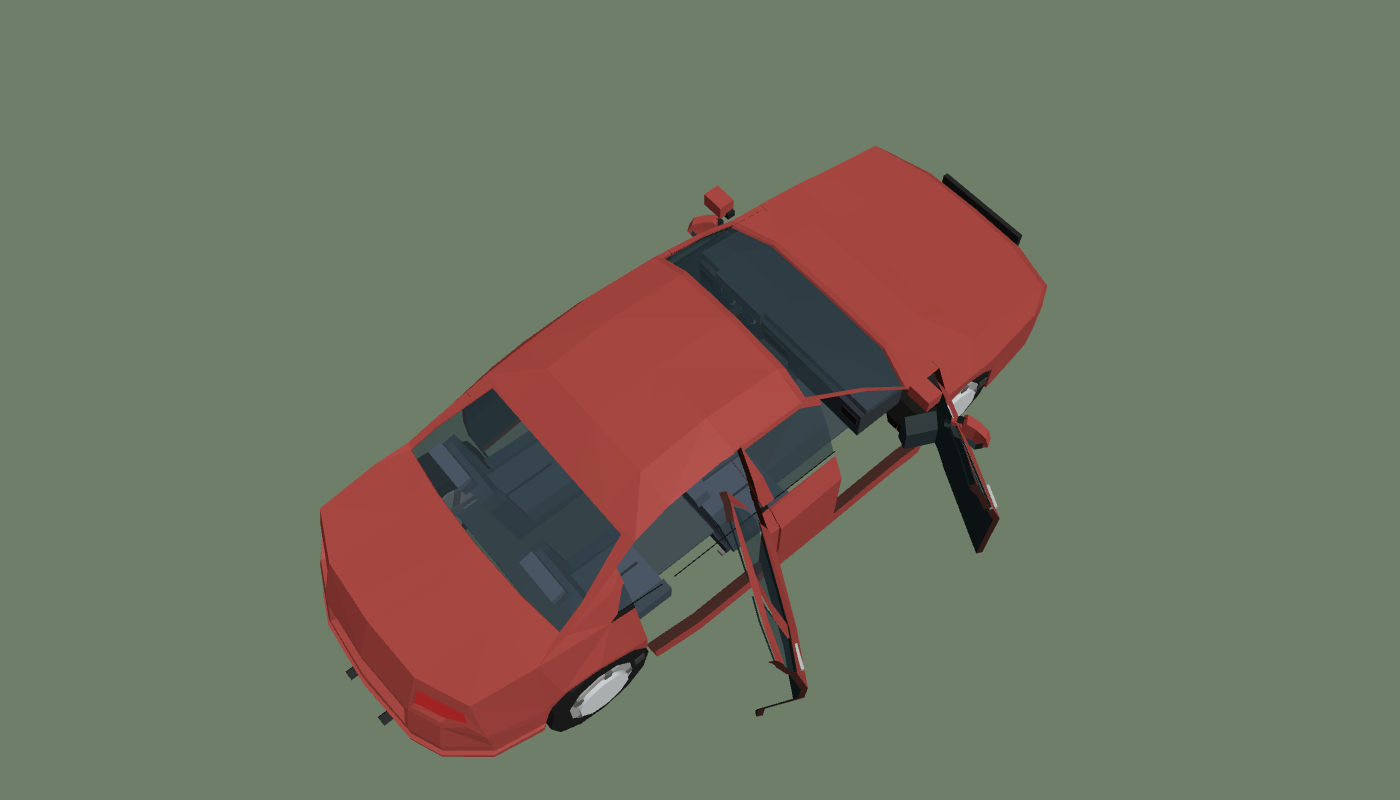
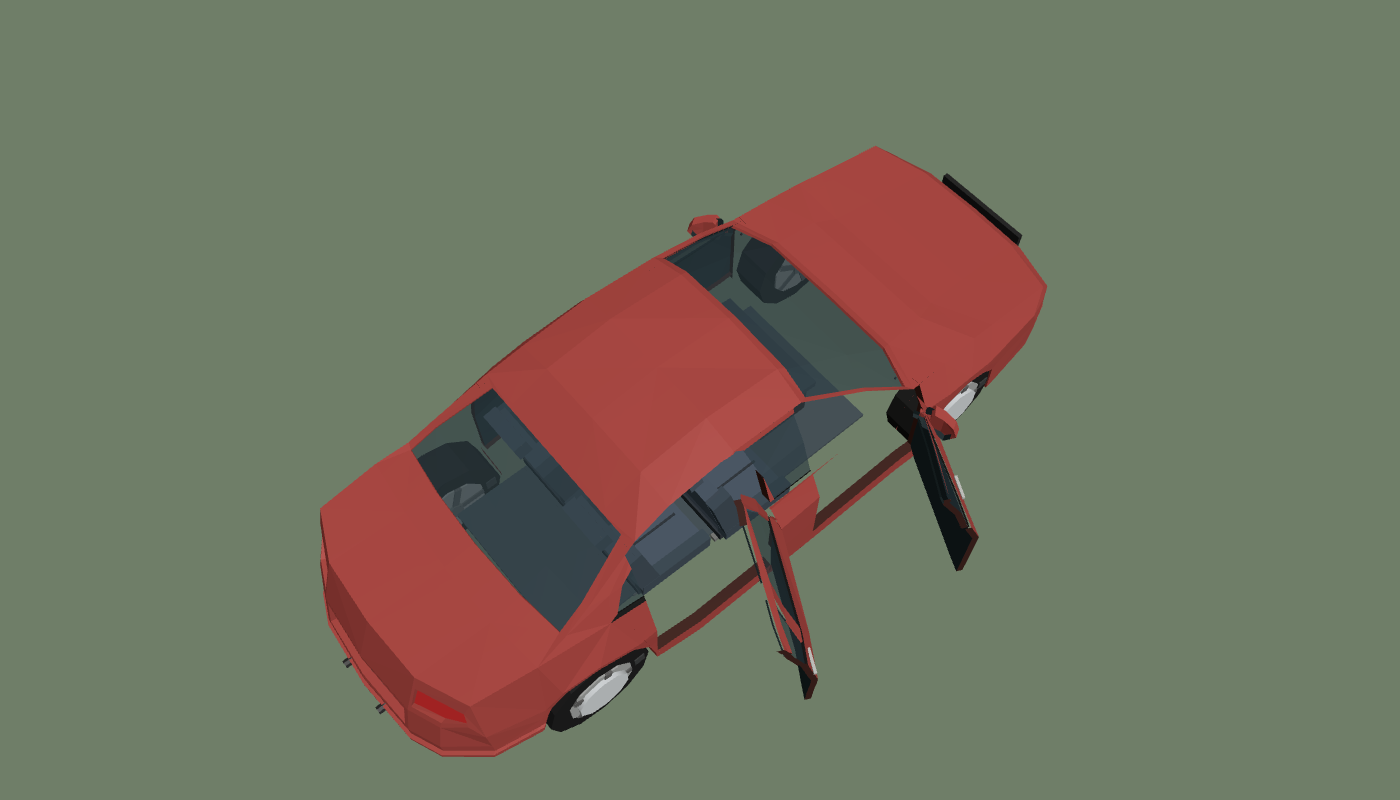
Interieur binnen de romp: dashboard achter de voorruit, portieren achter de wielkasten
- addInterieur: stoelen, vloer en dashboard volgen de vrije binnenbreedte per plek (ruimte); het dashboard schuift naar achteren
  tot 85 % van zijn breedte vrij is, de achterbank naar voren tot de hoofdsteun onder de achterruit past
- hybride portieren beginnen achter de voorste wielkast en eindigen voor de achterste, met behoud van breedte; de rig volgt
  userData.deurMaat (vehicledoors3d.js). Het blok naast de open voordeur was het voorwiel door het gat
- zwarte raamlijst op de flank gaat altijd mee met de deur
- deursnipper_test: elk interieurpunt minstens 5 mm binnen de buitenste flank
- dashboard en stoel zonder samenvallende vlakken (naaf, rails); contactblad en verslag bijgewerkt

diff --git a/game/js/models3d_vehicles.js b/game/js/models3d_vehicles.js
@@ -682,14 +682,37 @@ function addPropGeo(B, geo, m) {
     B._push(0, pts[0], pts[1], pts[2], [c.getX(i), c.getY(i), c.getZ(i)], null);
   }
 }
-function addInterieur(B, { xA, xD, belt, vloerY, vloerW, stoelY, sx, zs, dashW }) {
-  B.box((xA + xD) / 2, vloerY, 0, xA - xD - 0.2, 0.02, vloerW, 0x45474c);
+// ruimte(x0, x1, y0, y1): de halve binnenbreedte die over dat hele stuk vrij is (de smalste plek van de flank, min een marge); zonder
+// ruimte-functie gelden de vaste maten (zs, dashW). Elke stoel schuift dan naar binnen en het dashboard wordt smaller waar de romp
+// inloopt (wielkast, A-stijl, voorruit), zodat geen interieurdeel door de carrosserie steekt.
+function addInterieur(B, { xA, xD, belt, vloerY, vloerW, stoelY, sx, zs, dashW, ruimte = null }) {
+  const vw = ruimte ? Math.min(vloerW, 2 * ruimte(xD + 0.1, xA - 0.1, vloerY - 0.01, vloerY + 0.01)) : vloerW;
+  B.box((xA + xD) / 2, vloerY, 0, xA - xD - 0.2, 0.02, vw, 0x45474c);
   const stoel = propGeometry('autostoel'), dash = propGeometry('dashboard');
+  if (!stoel.boundingBox) stoel.computeBoundingBox();
+  if (!dash.boundingBox) dash.computeBoundingBox();
+  const sb = stoel.boundingBox, db = dash.boundingBox, sHalf = Math.max(-sb.min.z, sb.max.z);
+  // de achterbank staat iets verder naar voren dan bij de procedurele auto: daar lopen het dak en de achterruit al in
+  let ax = ruimte ? sx - 0.78 : sx - 0.85, ay = stoelY;
+  // past de hoofdsteun niet onder de achterruit (de flank houdt daar op), dan schuift de bank naar voren
+  if (ruimte) for (let i = 0; i < 12 && ruimte(ax + sb.min.x, ax + sb.min.x + 0.12, ay + sb.max.y - 0.14, ay + sb.max.y) < zs * 0.92 + 0.14; i++) ax += 0.03;
+  const stoelZ = (x, y, z) => {
+    if (!ruimte) return z;
+    const vrij = ruimte(x + sb.min.x, x + sb.max.x, y + sb.min.y, y + sb.max.y) - sHalf;
+    return Math.sign(z) * Math.max(sHalf + 0.01, Math.min(Math.abs(z), vrij));
+  };
   for (const z of [-zs, zs]) {
-    addPropGeo(B, stoel, composeMatrix(sx, stoelY, z));
-    addPropGeo(B, stoel, composeMatrix(sx - 0.85, stoelY, z * 0.92));
+    addPropGeo(B, stoel, composeMatrix(sx, stoelY, stoelZ(sx, stoelY, z)));
+    addPropGeo(B, stoel, composeMatrix(ax, ay, stoelZ(ax, ay, z * 0.92)));
   }
-  addPropGeo(B, dash, composeMatrix(xA - 0.2, belt - 0.5, 0, 0, 0, 0, 1, 1, Math.min(1, dashW / 1.42)));
+  // het dashboard staat achter de onderrand van de voorruit: schuift naar achteren tot de romp minstens 85 % van zijn breedte vrij laat
+  // (de voorruit en de A-stijlen lopen naar voren in), en wordt dan smal genoeg gemaakt dat het nergens door de flank steekt
+  let dx = xA - 0.26;
+  const dy = belt - 0.5, dHalf = Math.max(-db.min.z, db.max.z);
+  const dashVrij = (x) => ruimte(x + db.min.x, x + db.max.x, dy + db.min.y, dy + db.max.y);
+  if (ruimte) for (let i = 0; i < 12 && dashVrij(dx) < dHalf * 0.85; i++) dx -= 0.03;
+  const dz = ruimte ? Math.max(0.5, Math.min(1, dashVrij(dx) / dHalf)) : Math.min(1, dashW / 1.42);
+  addPropGeo(B, dash, composeMatrix(dx, dy, 0, 0, 0, 0, 1, 1, dz));
 }
 
 // De echte deuropeningen (eis eigenaar 23-11): de dichte deuren als één statische mesh in het gat (buitenkant in lak, binnenkant
@@ -994,7 +1017,7 @@ export function hybridFit(key, L, W) {
   }).userData.fit;
 }
 function hybridBody(key, L, W, paint, doorName, police) {
-  return cached(`hybride3|${key}|${L}|${W}|${paint}|${doorName}|${police}`, () => {
+  return cached(`hybride4|${key}|${L}|${W}|${paint}|${doorName}|${police}`, () => {
     const hl = L / 2, hw = W / 2;
     const tris = hybridTris(key, L, W);
     const fit = hybridFit(key, L, W);
@@ -1003,13 +1026,33 @@ function hybridBody(key, L, W, paint, doorName, police) {
     const lakTris = tris.filter((t) => t.r === 0).map((t) => t.v);
     // de deuren die een echt gat krijgen: hun uitgeknipte stuk romp (met ruit) wordt de deur
     const defs = (DEUR_DEFS_REF[doorName] || []).filter((d) => d.soort === 'scharnier' || d.soort === 'achterscharnier');
-    const vlak = {}, deurZ = {}, rects = {};
+    const vlak = {}, deurZ = {}, rects = {}, deurMaat = {};
+    // de wielkasten: een portier begint achter de voorste wielkast en eindigt vóór de achterste (anders opent de deur een stuk
+    // spatbord en zie je door het gat het wiel met zijn wieldop)
+    const { auto } = hybridData(key), sc = hybridScale(auto, L, W, key), wr = auto.wielen[0].r * sc.sy;
+    const kasten = [...new Set(auto.wielen.map((w) => +(w.x * sc.sx).toFixed(3)))];
     for (const d of defs) {
       const z = hybridSurface(lakTris, d.x * L, d.y0 + d.h / 2, d.side);
       if (z === null) continue;
       deurZ[d.id] = Math.abs(z);
       // bovenkant: de bovenkant van de zijruit boven deze deur plus de raamlijst (niet het dak of de C-stijl: die zitten niet aan de deur)
-      const x0 = d.x * L - d.w / 2, x1 = d.x * L + d.w / 2;
+      let x0 = d.x * L - d.w / 2, x1 = d.x * L + d.w / 2;
+      // de deur schuift weg van de wielkast en houdt zijn breedte, tot op 7 cm van het midden van de stijl naar de buurdeur
+      const buren = defs.filter((q) => q !== d && q.side === d.side);
+      for (const kx of kasten) {
+        if (kx > x1 + wr + 0.04 || kx < x0 - wr - 0.04) continue;
+        if (kx > (x0 + x1) / 2) {
+          x1 = Math.min(x1, kx - wr - 0.04);
+          const achter = buren.filter((q) => q.x < d.x).map((q) => (q.x * L + q.w / 2 + d.x * L - d.w / 2) / 2 + 0.07);
+          x0 = Math.max(x1 - d.w, ...achter, -Infinity) > x0 ? x0 : Math.max(x1 - d.w, ...achter);
+        } else {
+          x0 = Math.max(x0, kx + wr + 0.04);
+          const voor = buren.filter((q) => q.x > d.x).map((q) => (q.x * L - q.w / 2 + d.x * L + d.w / 2) / 2 - 0.07);
+          x1 = Math.min(x0 + d.w, ...voor, Infinity) < x1 ? x1 : Math.min(x0 + d.w, ...voor);
+        }
+      }
+      if (x1 - x0 < 0.6) { x0 = d.x * L - d.w / 2; x1 = d.x * L + d.w / 2; } // te smal: dan de oude maat
+      if (x0 !== d.x * L - d.w / 2 || x1 !== d.x * L + d.w / 2) deurMaat[d.id] = { x: (x0 + x1) / 2 / L, w: x1 - x0 };
       let ruitTop = 0;
       for (const t of tris) if (t.r === 1) { const cx = (t.v[0][0] + t.v[1][0] + t.v[2][0]) / 3, cz = (t.v[0][2] + t.v[1][2] + t.v[2][2]) / 3; if (cx > x0 && cx < x1 && cz * d.side > 0.3) ruitTop = Math.max(ruitTop, ...t.v.map((p) => p[1])); }
       rects[d.id] = [x0, d.y0, x1, Math.min(fit.roof - 0.07, ruitTop ? ruitTop + 0.035 : fit.roof - 0.07)];
@@ -1068,7 +1111,8 @@ function hybridBody(key, L, W, paint, doorName, police) {
       const u = [0, 1, 2].map((k) => t.v[1][k] - t.v[0][k]), w = [0, 1, 2].map((k) => t.v[2][k] - t.v[0][k]);
       const n = [u[1] * w[2] - u[2] * w[1], u[2] * w[0] - u[0] * w[2], u[0] * w[1] - u[1] * w[0]], nl = Math.hypot(...n) || 1;
       const ruitOpzij = t.r !== 1 || (n[2] / nl) * (c[2] < 0 ? -1 : 1) > 0.6; // van de ruiten alleen de zijruit, niet de hoek van de voor- of achterruit
-      const d = (t.r === 2 || t.r === 3 || !ruitOpzij) ? null : defs.find((q) => rects[q.id] && ((n[2] / nl) * q.side > (c[1] > fit.belt ? 0.5 : 0.15) && c[2] * q.side >= deurZ[q.id] * 0.55 || c[1] <= fit.belt && (n[2] / nl) * q.side > -0.3 && c[2] * q.side >= deurZ[q.id] * 0.8)
+      // zwarte sierlijsten op de flank (de raamlijst, met een bovenvlak dat niet opzij kijkt) gaan altijd mee met de deur
+      const d = (t.r === 2 || t.r === 3 || !ruitOpzij) ? null : defs.find((q) => rects[q.id] && ((n[2] / nl) * q.side > (c[1] > fit.belt ? 0.5 : 0.15) && c[2] * q.side >= deurZ[q.id] * 0.55 || (c[1] <= fit.belt && (n[2] / nl) * q.side > -0.3 || t.r === 4) && c[2] * q.side >= deurZ[q.id] * 0.8)
         && Math.max(...t.v.map((p) => p[0])) > rects[q.id][0] && Math.min(...t.v.map((p) => p[0])) < rects[q.id][2] && Math.max(...t.v.map((p) => p[1])) > rects[q.id][1] && Math.min(...t.v.map((p) => p[1])) < rects[q.id][3]);
       if (!d) {
         // een klein deel dat helemaal binnen de contour aan de buitenkant zit maar niet opzij kijkt (een spiegel, een sierrand op de deur):
@@ -1148,6 +1192,7 @@ function hybridBody(key, L, W, paint, doorName, police) {
     geo.userData.parts = { hl, hw, hood: fit.hood, bumperColor: paint, front: { start: f0, end: f1, y: 0.4, x: hl - 0.1 }, rear: { start: f1, end: r1, y: 0.42, x: -hl + 0.1 } };
     geo.userData.deurZ = deurZ;
     geo.userData.gatRects = rects;
+    geo.userData.deurMaat = deurMaat;
     geo.userData.naden = markShared(D.build());
     // de deurbladen: het uitgeknipte stuk romp, met een binnenkant 3,5 cm naar binnen (omgekeerd, in bekleding) en een handvat
     const panelen = {}, decals = {};
@@ -1200,6 +1245,7 @@ function buildHybridCar(v, key, paint) {
   group.userData.deurLen = L;
   group.userData.deurWid = W;
   group.userData.gatRects = geo.userData.gatRects;
+  group.userData.deurMaat = geo.userData.deurMaat; // de deuren die voor de wielkast korter zijn geworden (vehicledoors3d.js)
   // dichte deuren: één statische mesh in de gaten tot er een deur-rig is
   const dm = new THREE.Mesh(geo.userData.deurenDicht, mats);
   dm.name = 'deurenDicht';
@@ -1217,11 +1263,18 @@ function buildHybridCar(v, key, paint) {
   // de breedte van elk interieurdeel volgt de flank op die plek (de romp loopt in naar voren, achteren en boven): niets steekt erdoor
   const flankTris = hybridTris(key, L, W).filter((t) => t.r === 0).map((t) => t.v);
   const binnen = (x, y, marge = 0.1) => { const z = hybridSurface(flankTris, x, y, 1); return Math.max(0.3, 2 * ((z === null ? W / 2 : z) - marge)); };
-  const ig = cached(`hybInterieur3|${key}|${L}|${W}`, () => {
+  const ig = cached(`hybInterieur4|${key}|${L}|${W}`, () => {
     const B = new GeoBuilder(1);
     const sx = -L / 2 * 0.06;
-    addInterieur(B, { xA: fit.xA, xD: fit.xD, belt: fit.belt, vloerY: 0.36, vloerW: Math.min(binnen(fit.xA - 0.3, 0.45), binnen(fit.xD + 0.3, 0.45)),
-      stoelY: 0.24, sx, zs: Math.min(binnen(sx, 0.6) / 2 - 0.26, 0.42), dashW: binnen(fit.xA - 0.2, fit.belt - 0.1, 0.12) });
+    // de smalste plek van de flank (lak en ruit, de romp vóór het knippen) over een stuk, op een rooster van 6 x 6 punten
+    const schil = hybridTris(key, L, W).filter((t) => t.r === 0 || t.r === 1).map((t) => t.v);
+    const ruimte = (x0, x1, y0, y1) => {
+      let m = Infinity;
+      for (let i = 0; i <= 5; i++) for (let j = 0; j <= 5; j++) { const z = hybridSurface(schil, x0 + (x1 - x0) * i / 5, y0 + (y1 - y0) * j / 5, 1); m = Math.min(m, z === null ? 0 : z); }
+      return m - 0.03;
+    };
+    addInterieur(B, { xA: fit.xA, xD: fit.xD, belt: fit.belt, vloerY: 0.36, vloerW: Math.min(binnen(fit.xA - 0.3, 0.45), binnen(fit.xD + 0.3, 0.45)), ruimte,
+      stoelY: 0.33, sx, zs: Math.min(binnen(sx, 0.6) / 2 - 0.26, 0.42), dashW: binnen(fit.xA - 0.2, fit.belt - 0.1, 0.12) });
     return B.build();
   });
   const im = new THREE.Mesh(ig, cabinFallbackMaterial());

diff --git a/game/js/propmodels3d.js b/game/js/propmodels3d.js
@@ -127,7 +127,7 @@ function paaltje() {
 function autostoel() {
   const B = new GeoBuilder(1);
   const STOF = 0x4a4f5a, WANG = 0x3c414b, NAAD = 0x2a2d33, STAAL = 0x6b6e70;
-  for (const z of [-0.16, 0.16]) B.box(0.02, 0.02, z, 0.46, 0.03, 0.04, STAAL);                       // rails
+  for (const z of [-0.15, 0.15]) B.box(0.02, 0.02, z, 0.46, 0.03, 0.04, STAAL);                       // rails
   B.box(0.02, 0.07, 0, 0.42, 0.06, 0.38, NAAD);                                                         // onderstel
   B.box(0.04, 0.14, 0, 0.44, 0.08, 0.36, STOF, 0, 0, 0, -0.06);                                         // zitting, achter iets lager
   for (const z of [-0.205, 0.205]) B.box(0.04, 0.17, z, 0.46, 0.1, 0.07, WANG, 0, 0, 0, -0.06);       // zijwangen van de zitting (iets langer: geen gedeeld voorvlak)
@@ -152,13 +152,13 @@ function dashboard() {
   }
   for (const z of [-0.62, -0.05, 0.05, 0.62]) B.box(-0.162, 0.03, z, 0.01, 0.06, 0.12, ROOSTER);       // roosters
   B.box(-0.12, -0.18, 0, 0.3, 0.28, 0.22, DASH);                                                        // middenconsole
-  B.box(-0.165, -0.08, 0, 0.012, 0.07, 0.16, METER);                                                    // radio
+  B.box(-0.17, -0.08, 0, 0.012, 0.07, 0.16, METER);                                                     // radio
   B.geo(new THREE.CylinderGeometry(0.018, 0.022, 0.16, 6), composeMatrix(-0.3, -0.26, 0, 0, 0, 0.5), STUUR); // pook
   // stuur op een kolom, schuin naar de bestuurder
   B.geo(new THREE.CylinderGeometry(0.03, 0.035, 0.32, 6).rotateZ(Math.PI / 2 + 0.45), composeMatrix(-0.26, -0.02, -0.34), STUUR);
   B.geo(new THREE.TorusGeometry(0.17, 0.018, 5, 14).rotateY(Math.PI / 2).rotateZ(0.45), composeMatrix(-0.4, -0.08, -0.34), STUUR);
   B.box(-0.4, -0.08, -0.34, 0.03, 0.05, 0.3, STUUR, 0, 0, 0, 0.45);                                     // spaak
-  B.geo(new THREE.CylinderGeometry(0.045, 0.045, 0.04, 8).rotateZ(Math.PI / 2 + 0.45), composeMatrix(-0.39, -0.08, -0.34), ZACHT); // naaf
+  B.geo(new THREE.CylinderGeometry(0.045, 0.045, 0.056, 8).rotateZ(Math.PI / 2 + 0.45), composeMatrix(-0.39, -0.08, -0.34), ZACHT); // naaf
   return B.build().translate(0, 0.34, 0); // oorsprong onder de middenconsole (de bovenkant zit dan op 0,46 m)
 }
 

diff --git a/game/js/vehicledoors3d.js b/game/js/vehicledoors3d.js
@@ -137,7 +137,9 @@ function buildRig(mesh, v, defs) {
   const wid = mesh.userData.deurWid || v.model.wid, hw = wid / 2, len = mesh.userData.deurLen || v.model.len;
   const doors = {};
   const paint = paintOf(v);
-  for (const d of defs) {
+  for (const d0 of defs) {
+    // een hybride romp kan een deur korter maken voor de wielkast (models3d_vehicles.js userData.deurMaat): de rig volgt dat gat
+    const d = mesh.userData.deurMaat && mesh.userData.deurMaat[d0.id] ? { ...d0, ...mesh.userData.deurMaat[d0.id] } : d0;
     const cx = d.x * len;
     // smalle cabine of limousine: de deur zit op zijn eigen zijkant (d.zij); bij een romp met een gebogen flank (de hybride proef-auto)
     // geeft het model zelf de flank per deur (userData.deurZ)

diff --git a/docs/AAA-OBJECTEN-23-11.md b/docs/AAA-OBJECTEN-23-11.md
@@ -228,6 +228,24 @@ verwacht 63 graden; `voertuigmodel_test`, `vehicledoorcuts_test` en `vehicle_int
   donkere lijn langs de dorpel in de bovenaanzicht (vermoedelijk de 6 cm rand van de opening, op de kant gezien) en de bovenkant
   van het open achterportier (raamlijst van hun romp die meegaat met de deur).
 
+### Na de beoordeling: dashboard, wielkast en interieur binnen de romp
+
+- Het "donkere blok met grijze kast" naast de open voordeur was het voorwiel met zijn wieldop: de voordeur liep over de achterkant
+  van de voorste wielkast door, dus het gat liet het wiel zien. Een portier van een hybride begint nu achter de voorste wielkast en
+  eindigt voor de achterste (wielstraal plus 4 cm), houdt zijn breedte van 0,8 m en schuift daarvoor naar de B-stijl (minstens 14 cm
+  stijl). De rig volgt via `userData.deurMaat` (vehicledoors3d.js).
+- Het dashboard was op 27 % van zijn breedte samengeknepen (de flank loopt bij de voorruit in) en stond te ver naar voren. Nu schuift
+  het naar achteren tot de romp minstens 85 % van zijn breedte vrij laat (achter de onderrand van de voorruit) en wordt het alleen
+  zo smal als de flank daar toelaat. Stoelen en vloer volgen dezelfde vrije breedte per plek (`ruimte` in `addInterieur`); de
+  achterbank schuift naar voren tot de hoofdsteun onder de achterruit past.
+- Test: `deursnipper_test` eist dat elk punt van het interieur (vloer, stoelen, dashboard) minstens 5 mm binnen de buitenste flank
+  ligt (romp en dichte deuren, een straal langs z op dezelfde x en y); geen flank daar (boven het dak of achter de ruit) telt als buiten.
+- De zwarte raamlijst op de flank gaat nu altijd mee met de deur (ook zijn bovenvlak), anders bleef een reepje in de opening.
+- Het rode blokje boven de A-stijl was ons losse spiegelblok aan de overkant; dat is weg (zie de vijfde ronde). Wat daar nu zit is
+  de spiegel van het pakket, vast aan de voordeur.
+- Gezien op het contactblad: dicht van opzij (naden achter de wielkasten), open schuin en van boven. Niet zeker: een dun licht
+  lijntje op de raamlijn tussen de B-stijl en de voordeur in het zijaanzicht.
+
 ## Niet in beeld gezien
 
 - Vierde ronde: niets in het spel bekeken; geen fps gemeten (alleen driehoeken). De echte cabine van `cabin3d.js` in de hybride (die volgt
